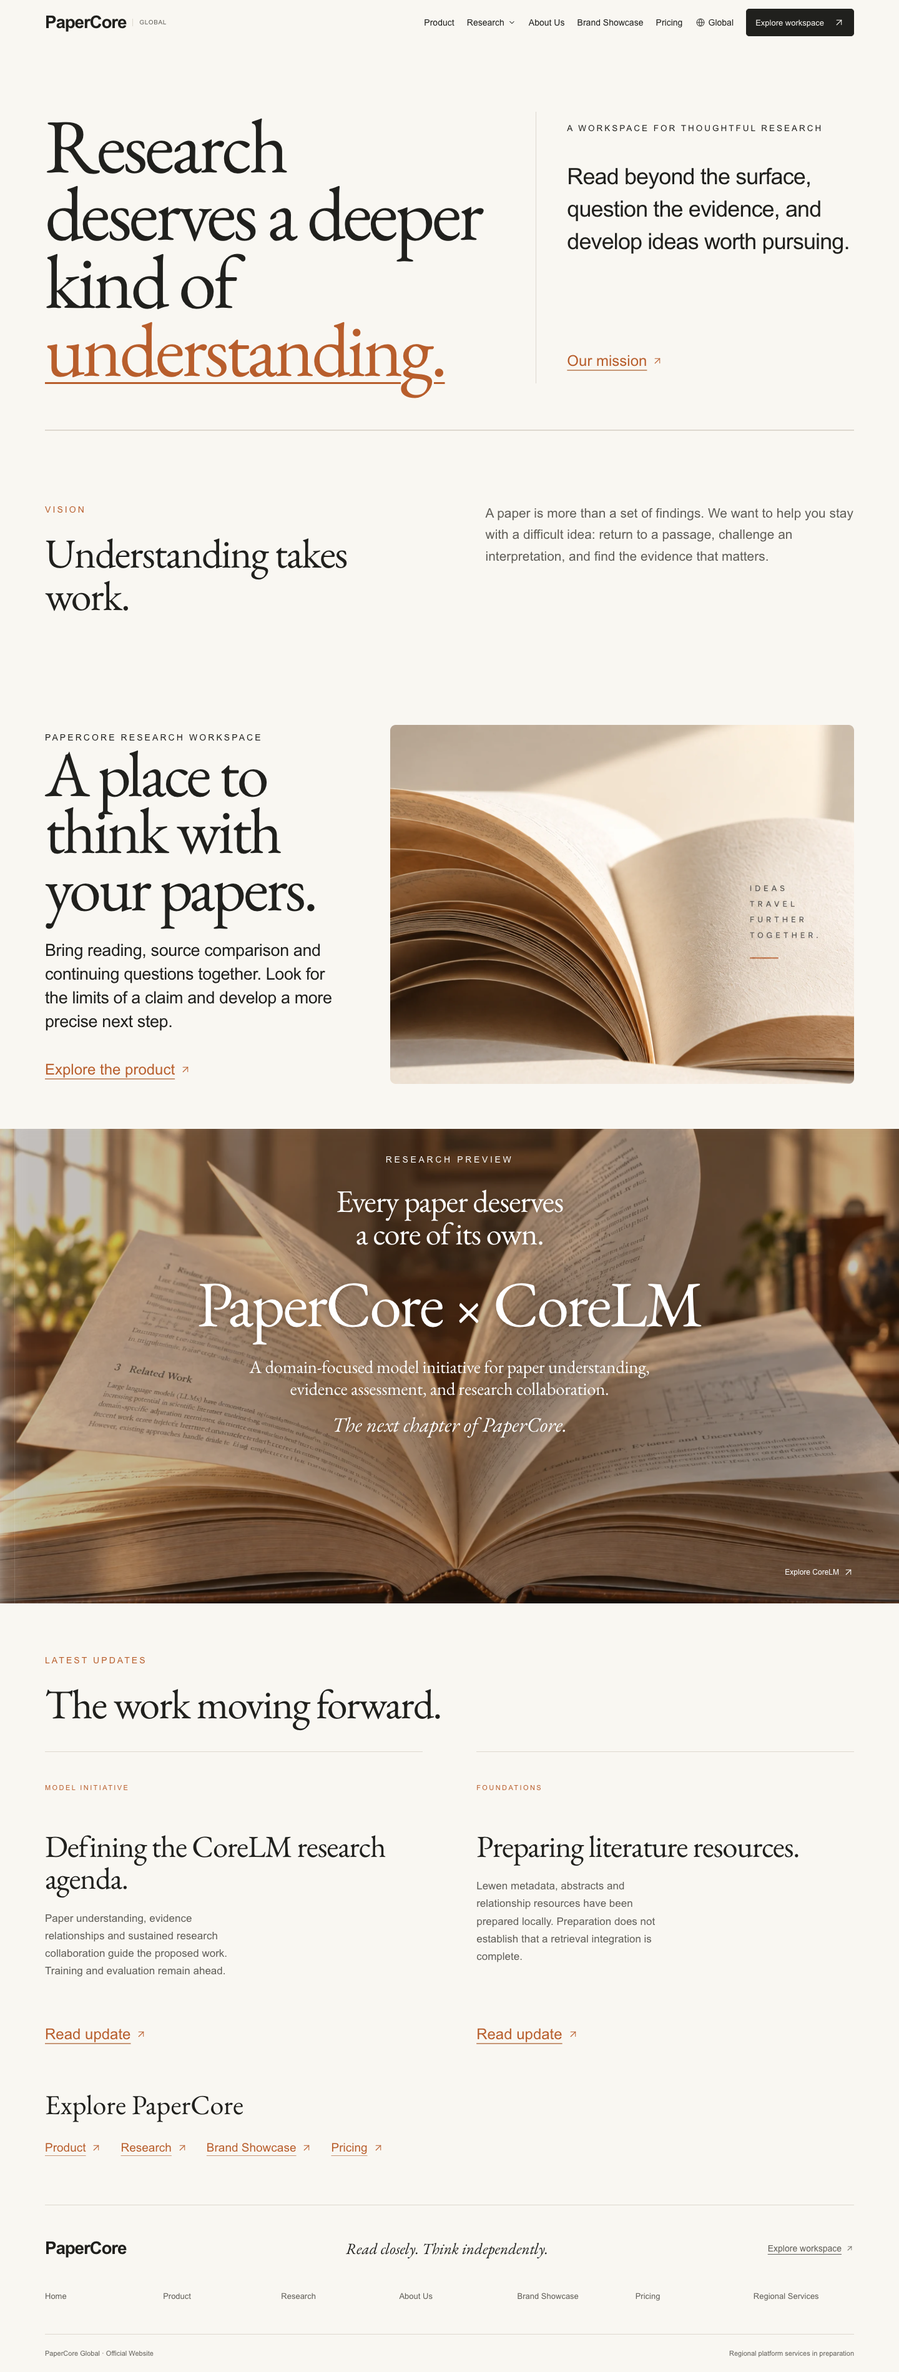
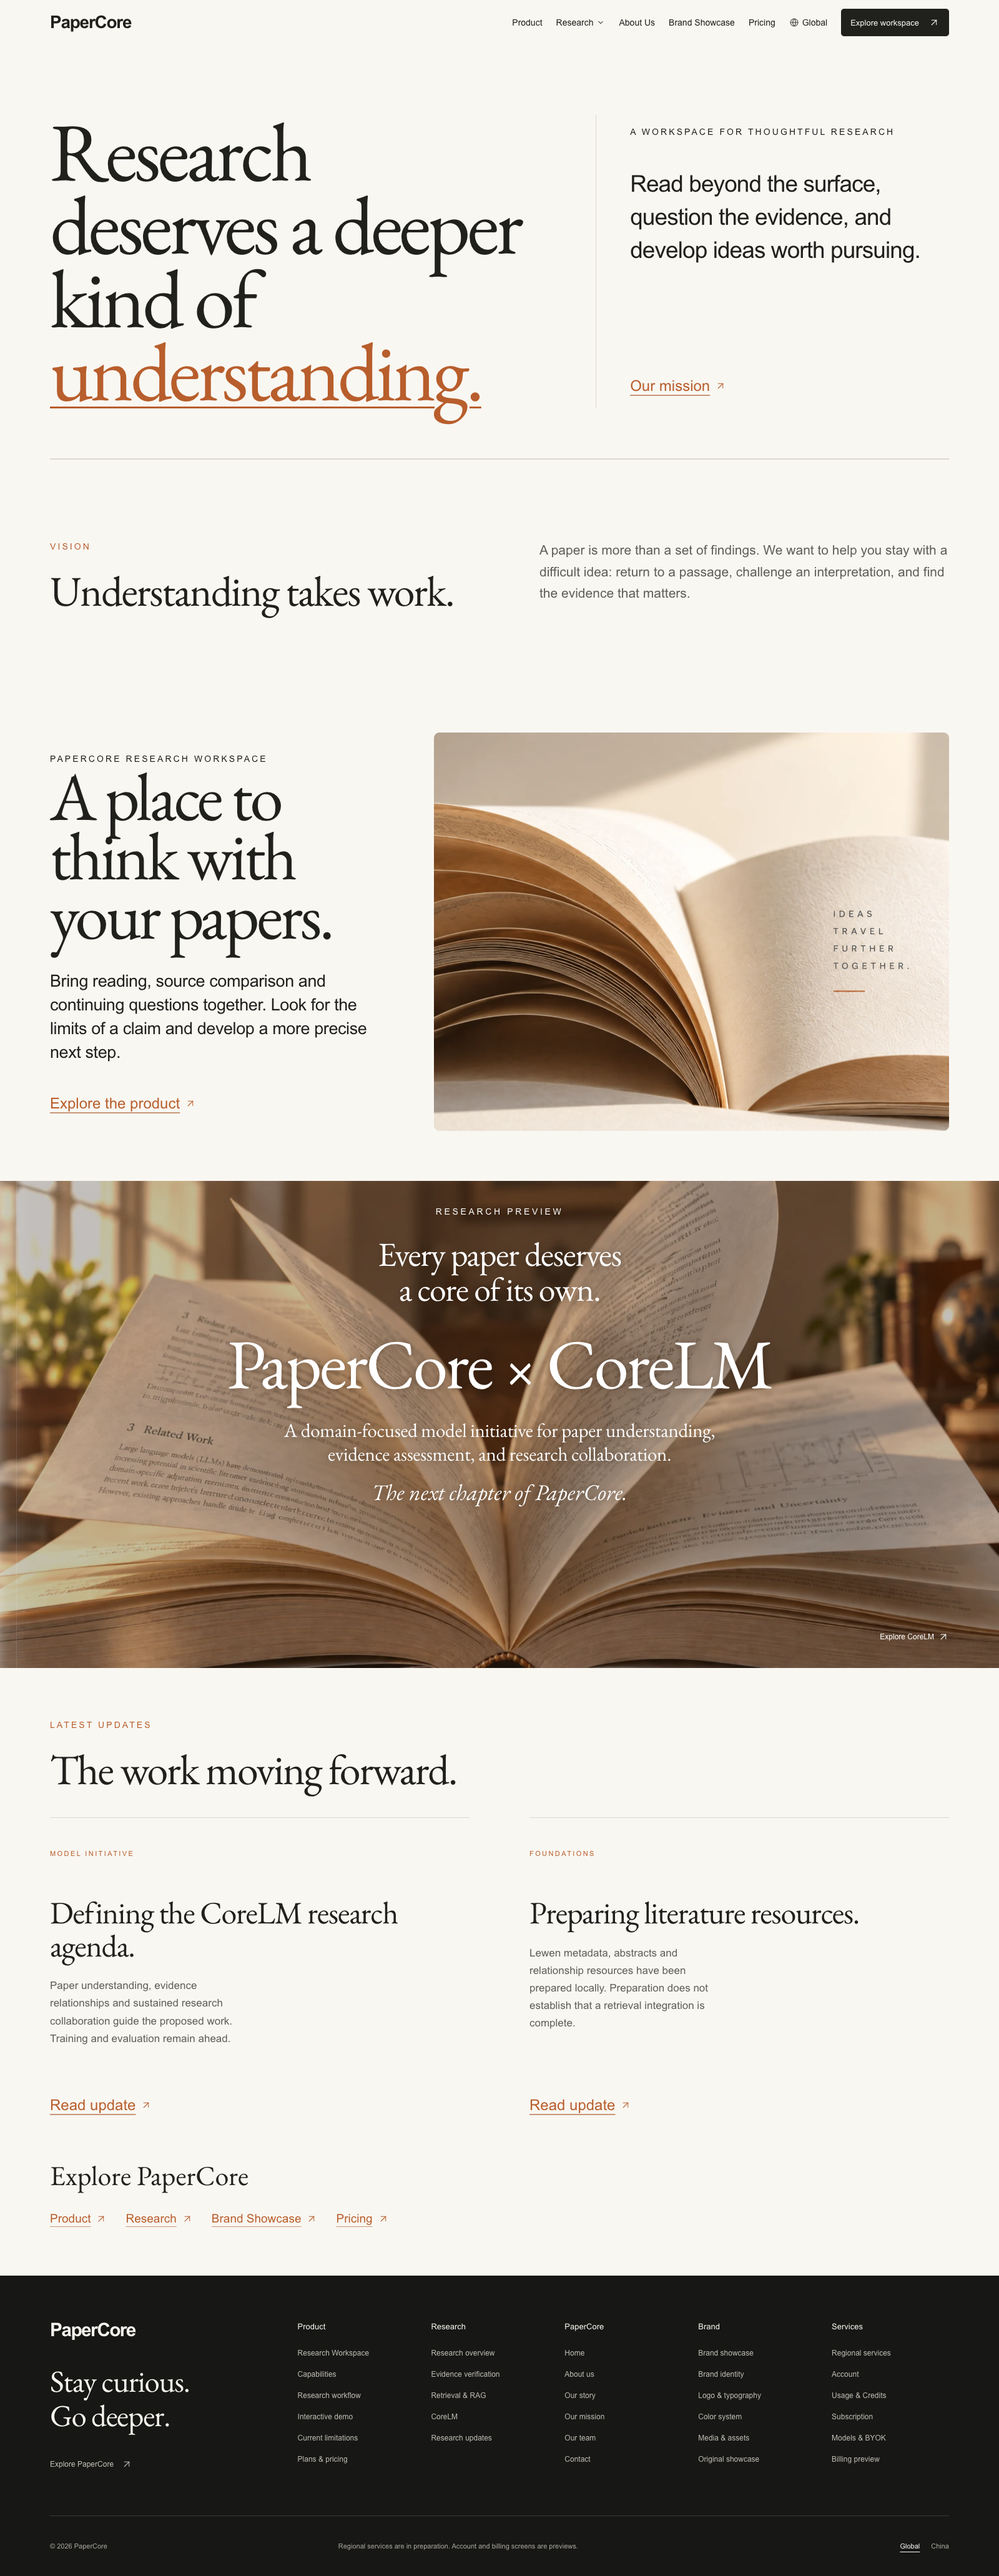
Refresh website and workspace previews with current Chrome captures

diff --git a/README.md b/README.md
@@ -44,9 +44,9 @@ Local regional services now connect accounts to private research workspaces, usa
 
 ## Website preview
 
-<img src="assets/website-preview.png" alt="Full English PaperCore website design preview, including research, CoreLM and footer" width="1000" />
+<img src="assets/website-preview.png" alt="Complete current English PaperCore website, freshly captured in Google Chrome from navigation to footer" width="1000" />
 
-*Complete English website preview from the existing local design checks. Published here on October 12, 2026; it is not a screenshot of a publicly hosted service or a new browser capture from this repository update.*
+*Fresh full-page capture of the current English website, taken in Google Chrome on October 12, 2026 (1600 × 4125). It includes the navigation, research sections, CoreLM preview and complete footer. Captured from a local build; a public hosted service is not yet available.*
 
 ## Research workspace preview
 
@@ -54,7 +54,7 @@ Local regional services now connect accounts to private research workspaces, usa
 <img src="assets/workspace-v2.jpg" alt="Complete PaperCore 2.0 desktop workspace, captured in Google Chrome with Web search disabled" width="1200" />
 </div>
 
-*Workspace capture from October 8, 2026; retained as a dated interface reference. The latest conversation view has a more compact input area and a larger model-switch target. The complete desktop homepage, captured in Google Chrome with an empty local workspace, including the sidebar and page footer. The UI shown is in Chinese. White, warm and dark themes are available; this screenshot contains no uploaded papers, conversations or credentials.*
+*Fresh capture of the current desktop homepage, taken in Google Chrome on October 12, 2026 (1600 × 1100), including the sidebar and page footer. Captured in an empty local workspace with Web search disabled; no uploaded papers, conversations or credentials are shown. The interface shown is in Chinese. White, warm and dark themes are available.*
 
 ## Data and connected services
 
